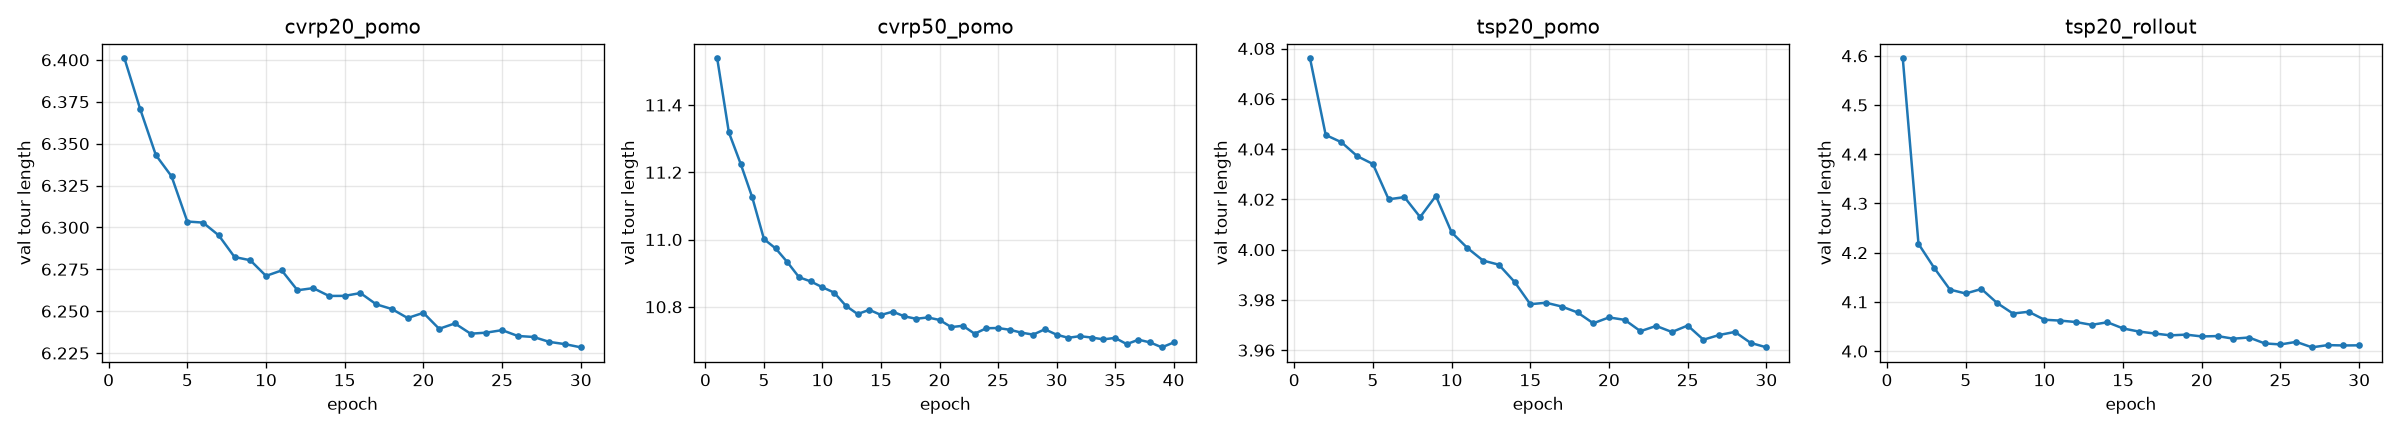
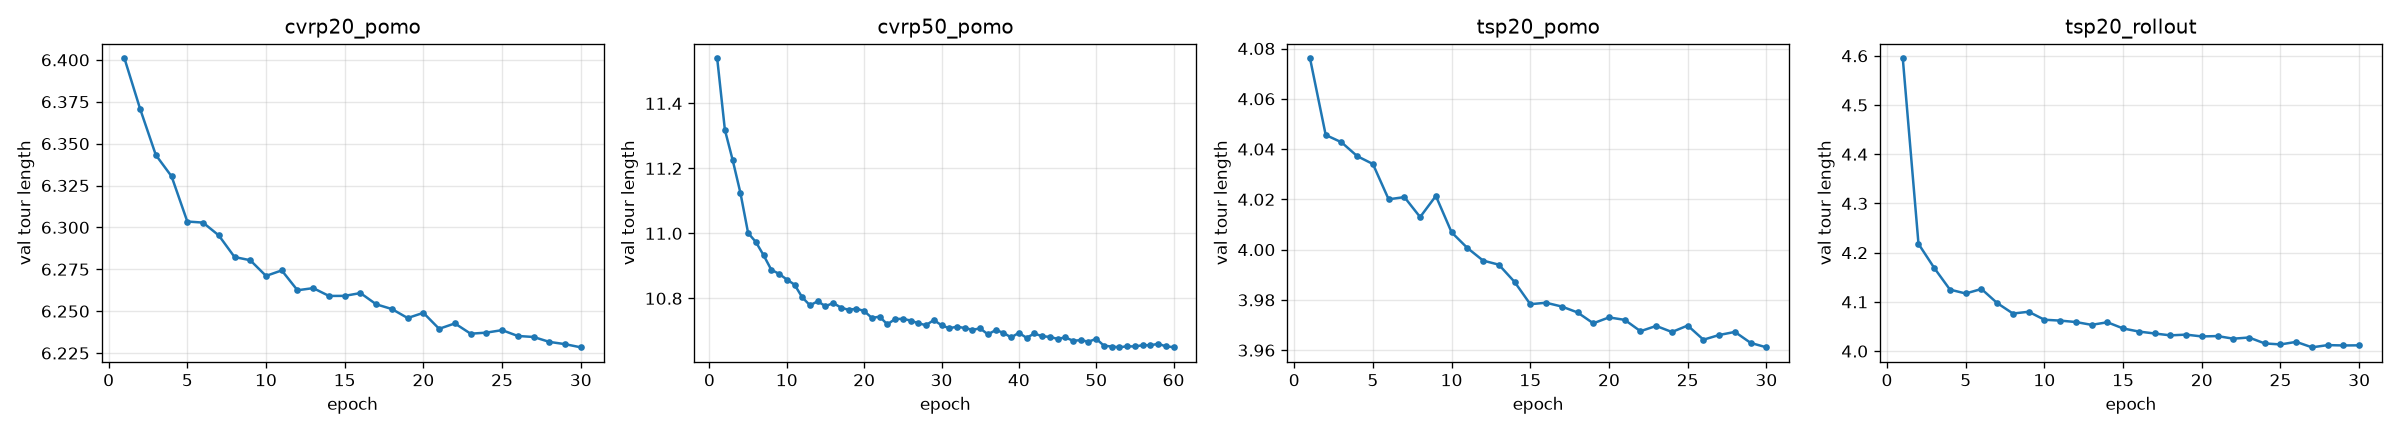
CVRP-50 trained to epoch 60 (best 52): 1.81% gap vs PyVRP
Early stopping halted further training; release notes and README updated.

diff --git a/README.md b/README.md
@@ -73,18 +73,21 @@ After ~35 minutes of training per problem on a GTX 1660 Super, the policy is wit
 PyVRP at 12–60× lower latency and beats OR-Tools on CVRP-20. Single greedy decoding is weak because
 POMO training always forces the first customer; multi-start decoding is the intended mode.
 
-**CVRP-50** (200 instances; model trained 90 min at this size):
+**CVRP-50** (200 instances; model trained 60 epochs, best at 52, ~2.3 h; early stopping):
 
 | Solver | Gap | Runtime |
 |---|---|---|
 | PyVRP (10 s) | 0.02 % | 10 s |
-| **Attention + POMO (×8 aug.)** | **2.0 %** | **190 ms** |
-| OR-Tools (10 s) | 3.2 % (2 failures) | 10 s |
+| **Attention + POMO (×8 aug.)** | **1.81 %** (2.0 % at epoch 38) | **190–270 ms** |
+| OR-Tools (10 s) | 3.2–4.0 % (2 failures) | 10 s |
 | Clarke-Wright savings | 5.1 % | <10 ms |
 | OR-Tools (1 s) | 6.5 % (3 failures) | 1 s |
 | Attention, CVRP-20 model (size transfer) | 4.2 % | 210 ms |
 
-The network beats OR-Tools given 50× more time. **Size generalisation** is the weak spot: the
+The network beats OR-Tools given ~40× more time. OR-Tools' gap depends on how many benchmark
+workers share the CPU (3.2 % with 3, 4.0 % with 6), the network's does not. Training past epoch 40
+gave only 0.28 % on validation, so further gains will come from local search and curriculum, not
+more epochs at this size. **Size generalisation** is the weak spot: the
 CVRP-20 model drops to 4.2 % on CVRP-50, which is why the plan trains at the target size and adds
 a size curriculum in phase 3 (real routes have ~150 stops).
 

diff --git a/docs/releases/v0.2.0.md b/docs/releases/v0.2.0.md
@@ -7,7 +7,7 @@ from `checkpoints/` as release assets; `scripts/download_models.py` fetches them
 |---|---|---|---|---|---|
 | `tsp20_pomo.pt` | TSP, 20 customers + depot | 30 epochs · ~35 min · GTX 1660 Super | 3.9611 | 0.23 % | 80 ms |
 | `cvrp20_pomo.pt` | CVRP, 20 customers, capacity 30 | 30 epochs · ~40 min | 6.2284 | 0.67 % | 80 ms |
-| `cvrp50_pomo.pt` | CVRP, 50 customers, capacity 40 | 40 epochs · ~90 min | 10.6796 | 2.0 % | 190 ms |
+| `cvrp50_pomo.pt` | CVRP, 50 customers, capacity 40 | 60 epochs (best 52) · ~2.3 h | 10.6492 | 1.81 % | 190 ms |
 
 All three: 6-layer Transformer encoder, 128-dim, 8 heads, instance norm, POMO shared baseline,
 1.30 M parameters, ~5 MB. Inference uses POMO multi-start greedy decoding with x8 augmentation.

diff --git a/results/synthetic_cvrp50_e100.md b/results/synthetic_cvrp50_e100.md
@@ -1,0 +1,9 @@
+# Synthetic benchmark · CVRP-50 · 200 instances
+
+Uniform instances, seeds not seen in training. Gap vs best solution found per instance.
+
+| config     |   instances |   travel_time_h |   gap_% |   gap_%_p90 |   vehicles |   runtime_s_p50 |   failures |
+|:-----------|------------:|----------------:|--------:|------------:|-----------:|----------------:|-----------:|
+| pyvrp:10   |         200 |            2.86 |    0.02 |        0    |       6.73 |           10.01 |          0 |
+| attention  |         200 |            2.91 |    1.81 |        3.08 |       6.88 |            0.27 |          0 |
+| ortools:10 |         200 |            2.97 |    3.96 |        7.23 |       6.74 |           10    |          2 |
